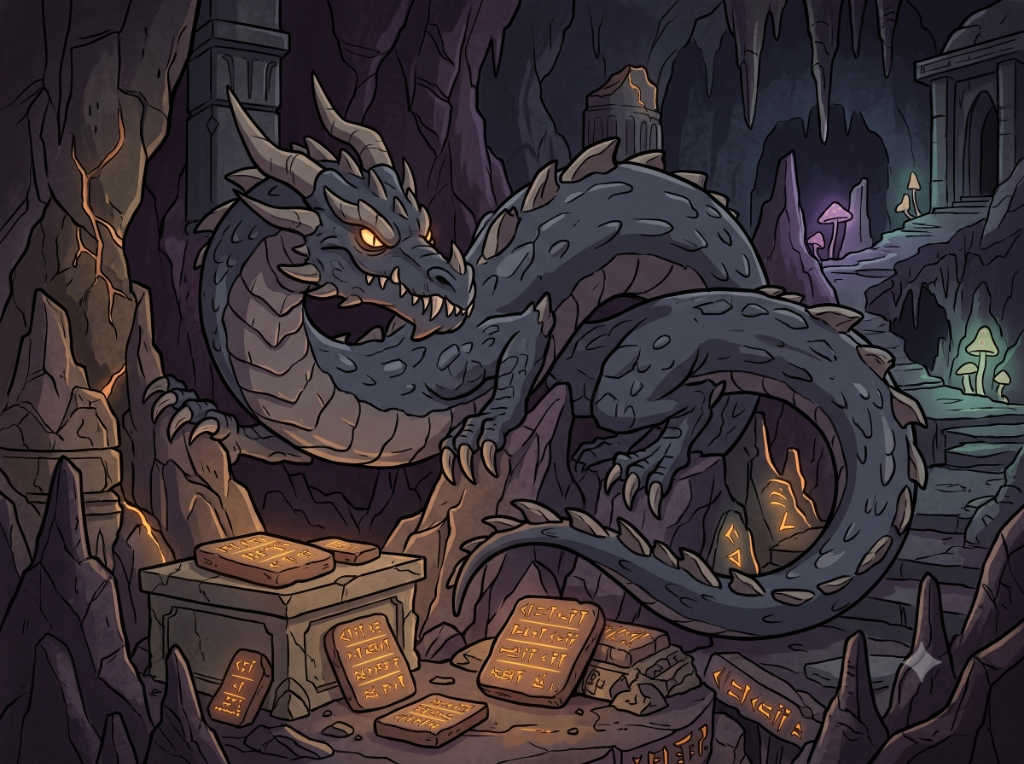
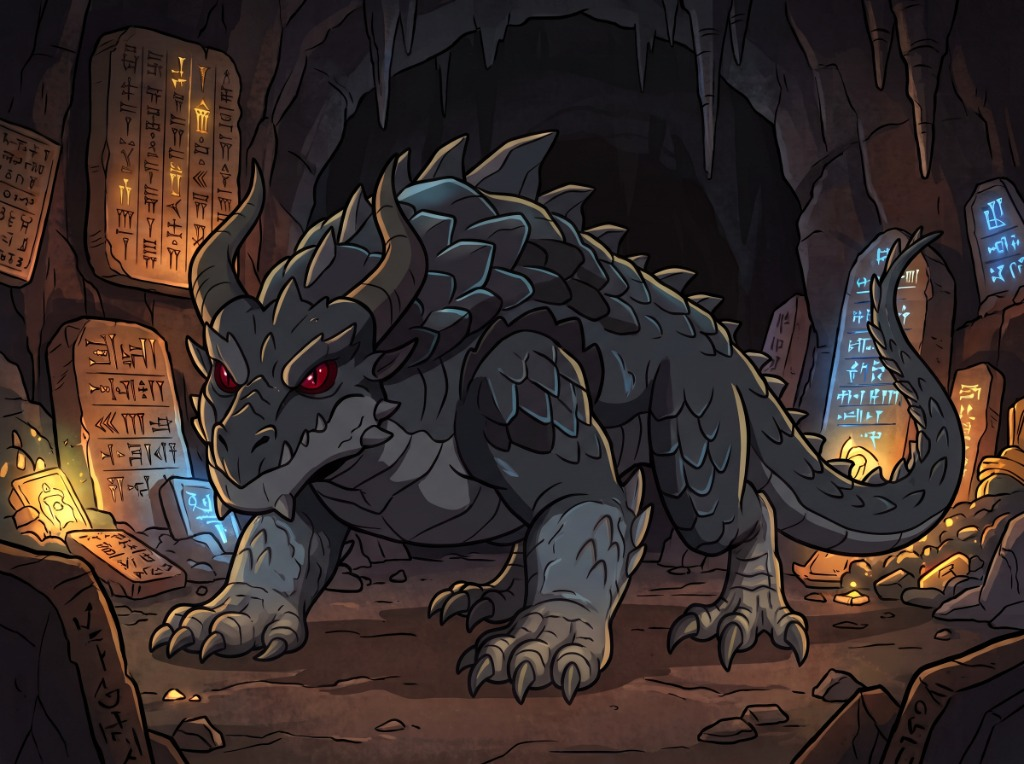
Cambios menores
Seeee

diff --git a/dragon/zenith.html b/dragon/zenith.html
@@ -32,29 +32,29 @@
   </script>
   <link rel="stylesheet" href="/styles.css?v=6.4.0">
 
-  <!-- Custom SSG Open Graph & Meta Tags for Huracán -->
-  <title>Huracán (El Señor Corazón del Cielo) | Santuario de Dragones</title>
-  <meta name="description" content="Huracán es un dragón Drakón de Tormenta de la mitología Mesoamericana y Sudamericana. Hábitat: Cielos Tormentosos y Ruinas de El Mirador. El colosal Huracán (el gran dragón de la mitología Maya y del Caribe) es el señor absoluto de los vientos giratorios, los terremotos y las t...">
-  <link rel="canonical" href="https://santuario-dragones.vercel.app/dragon/huracan.html">
-  <meta property="og:title" content="Huracán - El Señor Corazón del Cielo">
-  <meta property="og:description" content="Huracán es un dragón Drakón de Tormenta de la mitología Mesoamericana y Sudamericana. Hábitat: Cielos Tormentosos y Ruinas de El Mirador. El colosal Huracán (el gran dragón de la mitología Maya y del Caribe) es el señor absoluto de los vientos giratorios, los terremotos y las t...">
-  <meta property="og:image" content="https://santuario-dragones.vercel.app/assets/dragons/dragon_65.jpg">
+  <!-- Custom SSG Open Graph & Meta Tags for Zenith -->
+  <title>Zenith (El Gemelo Impenetrable de las Cumbres) | Santuario de Dragones</title>
+  <meta name="description" content="Zenith es un dragón Drake de Fuego de la mitología Leyenda del Santuario. Hábitat: Prados y Colinas Místicas del Santuario. Hijo menor de Magus Dragus y hermano de Ignitharyon y Traxes. Zenith es un singular dragón de dos cabezas y tipo Drake, cubierto por una arm...">
+  <link rel="canonical" href="https://santuario-dragones.vercel.app/dragon/zenith.html">
+  <meta property="og:title" content="Zenith - El Gemelo Impenetrable de las Cumbres">
+  <meta property="og:description" content="Zenith es un dragón Drake de Fuego de la mitología Leyenda del Santuario. Hábitat: Prados y Colinas Místicas del Santuario. Hijo menor de Magus Dragus y hermano de Ignitharyon y Traxes. Zenith es un singular dragón de dos cabezas y tipo Drake, cubierto por una arm...">
+  <meta property="og:image" content="https://santuario-dragones.vercel.app/assets/dragons/dragon_102.jpg">
   <meta property="og:image:width" content="1200">
   <meta property="og:image:height" content="900">
   <meta property="og:type" content="article">
-  <meta property="og:url" content="https://santuario-dragones.vercel.app/dragon/huracan.html">
+  <meta property="og:url" content="https://santuario-dragones.vercel.app/dragon/zenith.html">
   <meta name="twitter:card" content="summary_large_image">
-  <meta name="twitter:title" content="Huracán | Santuario Secreto de Dragones">
-  <meta name="twitter:description" content="Huracán es un dragón Drakón de Tormenta de la mitología Mesoamericana y Sudamericana. Hábitat: Cielos Tormentosos y Ruinas de El Mirador. El colosal Huracán (el gran dragón de la mitología Maya y del Caribe) es el señor absoluto de los vientos giratorios, los terremotos y las t...">
-  <meta name="twitter:image" content="https://santuario-dragones.vercel.app/assets/dragons/dragon_65.jpg">
+  <meta name="twitter:title" content="Zenith | Santuario Secreto de Dragones">
+  <meta name="twitter:description" content="Zenith es un dragón Drake de Fuego de la mitología Leyenda del Santuario. Hábitat: Prados y Colinas Místicas del Santuario. Hijo menor de Magus Dragus y hermano de Ignitharyon y Traxes. Zenith es un singular dragón de dos cabezas y tipo Drake, cubierto por una arm...">
+  <meta name="twitter:image" content="https://santuario-dragones.vercel.app/assets/dragons/dragon_102.jpg">
   
   <script type="application/ld+json">
   {
     "@context": "https://schema.org",
     "@type": "Article",
-    "headline": "Huracán - El Señor Corazón del Cielo",
-    "description": "Huracán es un dragón Drakón de Tormenta de la mitología Mesoamericana y Sudamericana. Hábitat: Cielos Tormentosos y Ruinas de El Mirador. El colosal Huracán (el gran dragón de la mitología Maya y del Caribe) es el señor absoluto de los vientos giratorios, los terremotos y las t...",
-    "image": "https://santuario-dragones.vercel.app/assets/dragons/dragon_65.jpg",
+    "headline": "Zenith - El Gemelo Impenetrable de las Cumbres",
+    "description": "Zenith es un dragón Drake de Fuego de la mitología Leyenda del Santuario. Hábitat: Prados y Colinas Místicas del Santuario. Hijo menor de Magus Dragus y hermano de Ignitharyon y Traxes. Zenith es un singular dragón de dos cabezas y tipo Drake, cubierto por una arm...",
+    "image": "https://santuario-dragones.vercel.app/assets/dragons/dragon_102.jpg",
     "author": {
       "@type": "Person",
       "name": "Magus Dragus"
@@ -108,10 +108,10 @@
         
         <header style="text-align: center; margin-bottom: 1.2rem; border-bottom: 1px solid var(--border-panel); padding-bottom: 1rem;">
           <span class="badge" style="background: rgba(233,196,106,0.15); border: 1px solid var(--gold-main); color: var(--gold-main); padding: 4px 12px; border-radius: 20px; font-weight: 700; font-size: 0.85rem; text-transform: uppercase;">
-            📜 Dragón #65
+            📜 Dragón #102
           </span>
-          <h1 class="hero-title" style="font-size: 2.8rem; color: var(--gold-main); margin: 0.8rem 0 0.4rem 0; font-family: var(--font-heading); text-align: center;">Huracán</h1>
-          <p class="dragon-standalone-subtitle" style="font-size: 1.3rem; font-style: italic; color: var(--color-teal); margin: 0 auto; text-align: center; width: 100%; display: block;">"El Señor Corazón del Cielo"</p>
+          <h1 class="hero-title" style="font-size: 2.8rem; color: var(--gold-main); margin: 0.8rem 0 0.4rem 0; font-family: var(--font-heading); text-align: center;">Zenith</h1>
+          <p class="dragon-standalone-subtitle" style="font-size: 1.3rem; font-style: italic; color: var(--color-teal); margin: 0 auto; text-align: center; width: 100%; display: block;">"El Gemelo Impenetrable de las Cumbres"</p>
         </header>
 
         <div style="display: grid; grid-template-columns: repeat(auto-fit, minmax(280px, 1fr)); gap: 1.2rem; align-items: start;">
@@ -119,13 +119,13 @@
           <!-- Column 1: Image & Badges -->
           <div style="text-align: center;">
             <div style="aspect-ratio: 4 / 3; width: 100%; border-radius: 14px; overflow: hidden; border: 2px solid var(--gold-main); box-shadow: 0 8px 25px rgba(0,0,0,0.7); background: #0c0b14;">
-              <img src="/assets/dragons/dragon_65.jpg" alt="Huracán" style="width: 100%; height: 100%; object-fit: contain;" />
+              <img src="/assets/dragons/dragon_102.jpg" alt="Zenith" style="width: 100%; height: 100%; object-fit: contain;" />
             </div>
 
             <div style="display: flex; flex-direction: column; gap: 6px; margin-top: 1rem;">
-              <span class="badge" style="background: rgba(233,196,106,0.15); border: 1px solid var(--gold-main); color: var(--gold-main); padding: 8px 12px; border-radius: 8px; font-weight: 700; text-align: left; font-size: 0.9rem;">🏛 Mitología: Mesoamericana y Sudamericana</span>
-              <span class="badge" style="background: rgba(42,157,143,0.15); border: 1px solid var(--color-teal); color: var(--color-teal); padding: 8px 12px; border-radius: 8px; font-weight: 700; text-align: left; font-size: 0.9rem;">🐉 Tipo: Drakón</span>
-              <span class="badge" style="background: rgba(231,111,81,0.15); border: 1px solid #e76f51; color: #e76f51; padding: 8px 12px; border-radius: 8px; font-weight: 700; text-align: left; font-size: 0.9rem;">🔥 Elemento: Tormenta</span>
+              <span class="badge" style="background: rgba(233,196,106,0.15); border: 1px solid var(--gold-main); color: var(--gold-main); padding: 8px 12px; border-radius: 8px; font-weight: 700; text-align: left; font-size: 0.9rem;">🏛 Mitología: Leyenda del Santuario</span>
+              <span class="badge" style="background: rgba(42,157,143,0.15); border: 1px solid var(--color-teal); color: var(--color-teal); padding: 8px 12px; border-radius: 8px; font-weight: 700; text-align: left; font-size: 0.9rem;">🐉 Tipo: Drake</span>
+              <span class="badge" style="background: rgba(231,111,81,0.15); border: 1px solid #e76f51; color: #e76f51; padding: 8px 12px; border-radius: 8px; font-weight: 700; text-align: left; font-size: 0.9rem;">🔥 Elemento: Fuego</span>
               <span class="badge" style="background: rgba(255,255,255,0.08); border: 1px solid #fff; color: #fff; padding: 8px 12px; border-radius: 8px; font-weight: 700; text-align: left; font-size: 0.9rem;">⚠ Peligrosidad: 3/5 (⭐⭐⭐)</span>
             </div>
           </div>
@@ -134,16 +134,16 @@
           <div>
             <div style="background: rgba(255,255,255,0.03); padding: 1rem; border-radius: 12px; border: 1px solid var(--border-panel); margin-bottom: 1rem;">
               <h3 style="color: var(--gold-main); margin-top: 0; font-size: 1.15rem; border-bottom: 1px solid rgba(255,255,255,0.1); padding-bottom: 0.4rem;">📊 Datos de Combate & Hábitat</h3>
-              <p style="margin: 0.5rem 0; font-size: 0.95rem;"><strong>🏡 Hábitat:</strong> <span style="color: var(--text-main);">Cielos Tormentosos y Ruinas de El Mirador</span></p>
-              <p style="margin: 0.5rem 0; font-size: 0.95rem;"><strong>⚡ Habilidad Especial:</strong> <span style="color: var(--text-main);">Ciclón de Jade Espiral, Sismos de Cola Única y Aliento de Lluvia Fertil</span></p>
-              <p style="margin: 0.5rem 0; font-size: 0.95rem;"><strong>🛡 Debilidad:</strong> <span style="color: var(--text-main);">La Calma Absoluta del Ojo Solar</span></p>
+              <p style="margin: 0.5rem 0; font-size: 0.95rem;"><strong>🏡 Hábitat:</strong> <span style="color: var(--text-main);">Prados y Colinas Místicas del Santuario</span></p>
+              <p style="margin: 0.5rem 0; font-size: 0.95rem;"><strong>⚡ Habilidad Especial:</strong> <span style="color: var(--text-main);">Visión Doble Coordinada, Aliento Dual de Fuego Violeta y Escamas Impenetrables</span></p>
+              <p style="margin: 0.5rem 0; font-size: 0.95rem;"><strong>🛡 Debilidad:</strong> <span style="color: var(--text-main);">Descoordinación entre Cabezas por Distracción</span></p>
             </div>
 
             <div class="fantasy-panel" style="background: rgba(10,9,17,0.9); padding: 1rem; border-radius: 12px; border: 1px solid var(--gold-main);">
               <h3 style="color: var(--gold-main); margin-top: 0; font-size: 1.15rem; display: flex; align-items: center; gap: 8px;">
                 📜 Pergamino de la Antigüedad
               </h3>
-              <p style="font-size: 0.95rem; line-height: 1.6; color: var(--text-main); font-style: italic; margin-bottom: 0;">"El colosal Huracán (el gran dragón de la mitología Maya y del Caribe) es el señor absoluto de los vientos giratorios, los terremotos y las tormentas tropicales. ¡De su nombre proviene directamente la palabra 'huracán'! Posee una anatomía única y giratoria de dos brazos asimétricos y una sola pata espiral. Su rostro es una máscara de piedra tallada en basalto con un místico ojo en forma de 'X' y cejas de fuego turquesa, exhalando la lluvia sagrada de jade."</p>
+              <p style="font-size: 0.95rem; line-height: 1.6; color: var(--text-main); font-style: italic; margin-bottom: 0;">"Hijo menor de Magus Dragus y hermano de Ignitharyon y Traxes. Zenith es un singular dragón de dos cabezas y tipo Drake, cubierto por una armadura de escamas violetas totalmente impenetrables. Sus dos cabezas independientes le permiten vigilar en todas direcciones simultáneamente y lanzar ráfagas sincronizadas de fuego místico mientras corre a toda velocidad por las colinas."</p>
             </div>
           </div>
 

diff --git a/js/bundle.js b/js/bundle.js
@@ -872,6 +872,13 @@ const DRAGONS_DATA = [
     physicalDescription: "gorgeous feathered serpent dragon with fiery orange and gold scales, bright red feathered wings, glowing flame tail trail like a shooting meteor, Ampithere dragon with Fuego powers in Bosques del Volga",
     svgType: "ampithere", colorPrimary: "#e65100", colorSecondary: "#ffe0b2", glowColor: "#ffb74d"
   },
+  {
+    id: 65, name: "Huracán", title: "El Señor Corazón del Cielo", mythology: "Mesoamericana y Sudamericana", type: "Drakón", element: "Tormenta", danger: 3,
+    habitat: "Cielos Tormentosos y Ruinas de El Mirador", ability: "Ciclón de Jade Espiral, Sismos de Cola Única y Aliento de Lluvia Fertil", weakness: "La Calma Absoluta del Ojo Solar",
+    scroll: "El colosal Huracán (el gran dragón de la mitología Maya y del Caribe) es el señor absoluto de los vientos giratorios, los terremotos y las tormentas tropicales. ¡De su nombre proviene directamente la palabra 'huracán'! Posee una anatomía única y giratoria de dos brazos asimétricos y una sola pata espiral. Su rostro es una máscara de piedra tallada en basalto con un místico ojo en forma de 'X' y cejas de fuego turquesa, exhalando la lluvia sagrada de jade.",
+    physicalDescription: "unique asymmetrical green jade dragon with carved stone mask face, one large eye with X pupil and flaming turquoise eyebrows, exhaling spiral cloud mist tornado, Drakón dragon with Tormenta powers in Cielos Tormentosos",
+    svgType: "draco", colorPrimary: "#00695c", colorSecondary: "#18ffff", glowColor: "#64ffda"
+  },
 
   // 7. MESOPOTÁMICA, PERSA Y EGIPCIA (10)
   {
@@ -1133,11 +1140,11 @@ const DRAGONS_DATA = [
     svgType: "wyvern", colorPrimary: "#d84315", colorSecondary: "#76ff03", glowColor: "#b2ff59"
   },
   {
-    id: 102, name: "Huracán", title: "El Señor Corazón del Cielo", mythology: "Mesoamericana y Sudamericana", type: "Drakón", element: "Tormenta", danger: 3,
-    habitat: "Cielos Tormentosos y Ruinas de El Mirador", ability: "Ciclón de Jade Espiral, Sismos de Cola Única y Aliento de Lluvia Fertil", weakness: "La Calma Absoluta del Ojo Solar",
-    scroll: "El colosal Huracán (el gran dragón de la mitología Maya y del Caribe) es el señor absoluto de los vientos giratorios, los terremotos y las tormentas tropicales. ¡De su nombre proviene directamente la palabra 'huracán'! Posee una anatomía única y giratoria de dos brazos asimétricos y una sola pata espiral. Su rostro es una máscara de piedra tallada en basalto con un místico ojo en forma de 'X' y cejas de fuego turquesa, exhalando la lluvia sagrada de jade.",
-    physicalDescription: "unique asymmetrical green jade dragon with carved stone mask face, one large eye with X pupil and flaming turquoise eyebrows, exhaling spiral cloud mist tornado, Drakón dragon with Tormenta powers in Cielos Tormentosos",
-    svgType: "draco", colorPrimary: "#00695c", colorSecondary: "#18ffff", glowColor: "#64ffda"
+    id: 102, name: "Zenith", title: "El Gemelo Impenetrable de las Cumbres", mythology: "Leyenda del Santuario", type: "Drake", element: "Fuego", danger: 3,
+    habitat: "Prados y Colinas Místicas del Santuario", ability: "Visión Doble Coordinada, Aliento Dual de Fuego Violeta y Escamas Impenetrables", weakness: "Descoordinación entre Cabezas por Distracción",
+    scroll: "Hijo menor de Magus Dragus y hermano de Ignitharyon y Traxes. Zenith es un singular dragón de dos cabezas y tipo Drake, cubierto por una armadura de escamas violetas totalmente impenetrables. Sus dos cabezas independientes le permiten vigilar en todas direcciones simultáneamente y lanzar ráfagas sincronizadas de fuego místico mientras corre a toda velocidad por las colinas.",
+    physicalDescription: "colossal two-headed wingless drake dragon with deep violet scales, glowing eyes, Drake dragon with Fuego powers in Prados Místicos del Santuario",
+    svgType: "draco", colorPrimary: "#6a1b9a", colorSecondary: "#e1bee7", glowColor: "#ea80fc"
   },
   {
     id: 105, name: "Skrimsl", title: "El Dragón Astral de Islandia", mythology: "Nórdica y Germánica", type: "Wyrm", element: "Agua", danger: 3,
@@ -1507,7 +1514,7 @@ function renderSigilSVG(state, consonants, width = 600, height = 600) {
 
 function getDragonArtworkSrc(dragon) {
   if (dragon && dragon.id <= 200) {
-    const v = (dragon.id === 13) ? '?v=13_v2' : (dragon.id === 45) ? '?v=45_v2' : (dragon.id === 18) ? '?v=18_v2' : (dragon.id === 11) ? '?v=11_v2' : (dragon.id === 3) ? '?v=3_v2' : (dragon.id === 20) ? '?v=20_v2' : (dragon.id === 10) ? '?v=10_v2' : (dragon.id === 2) ? '?v=2_v2' : (dragon.id === 46) ? '?v=46_v2' : (dragon.id === 102) ? '?v=102_v2' : '';
+    const v = (dragon.id === 13) ? '?v=13_v2' : (dragon.id === 45) ? '?v=45_v2' : (dragon.id === 18) ? '?v=18_v2' : (dragon.id === 11) ? '?v=11_v2' : (dragon.id === 3) ? '?v=3_v2' : (dragon.id === 20) ? '?v=20_v2' : (dragon.id === 10) ? '?v=10_v2' : (dragon.id === 2) ? '?v=2_v2' : (dragon.id === 46) ? '?v=46_v2' : (dragon.id === 65) ? '?v=65_v2' : (dragon.id === 67) ? '?v=67_v2' : '';
     return `/assets/dragons/dragon_${dragon.id}.jpg${v}`;
   }
   return null;

diff --git a/js/data/dragons.js b/js/data/dragons.js
@@ -458,6 +458,13 @@ export const DRAGONS_DATA = [
     physicalDescription: "gorgeous feathered serpent dragon with fiery orange and gold scales, bright red feathered wings, glowing flame tail trail like a shooting meteor, Ampithere dragon with Fuego powers in Bosques del Volga",
     svgType: "ampithere", colorPrimary: "#e65100", colorSecondary: "#ffe0b2", glowColor: "#ffb74d"
   },
+  {
+    id: 65, name: "Huracán", title: "El Señor Corazón del Cielo", mythology: "Mesoamericana y Sudamericana", type: "Drakón", element: "Tormenta", danger: 3,
+    habitat: "Cielos Tormentosos y Ruinas de El Mirador", ability: "Ciclón de Jade Espiral, Sismos de Cola Única y Aliento de Lluvia Fertil", weakness: "La Calma Absoluta del Ojo Solar",
+    scroll: "El colosal Huracán (el gran dragón de la mitología Maya y del Caribe) es el señor absoluto de los vientos giratorios, los terremotos y las tormentas tropicales. ¡De su nombre proviene directamente la palabra 'huracán'! Posee una anatomía única y giratoria de dos brazos asimétricos y una sola pata espiral. Su rostro es una máscara de piedra tallada en basalto con un místico ojo en forma de 'X' y cejas de fuego turquesa, exhalando la lluvia sagrada de jade.",
+    physicalDescription: "unique asymmetrical green jade dragon with carved stone mask face, one large eye with X pupil and flaming turquoise eyebrows, exhaling spiral cloud mist tornado, Drakón dragon with Tormenta powers in Cielos Tormentosos",
+    svgType: "draco", colorPrimary: "#00695c", colorSecondary: "#18ffff", glowColor: "#64ffda"
+  },
 
   // 7. MESOPOTÁMICA, PERSA Y EGIPCIA (10)
   {
@@ -719,11 +726,11 @@ export const DRAGONS_DATA = [
     svgType: "wyvern", colorPrimary: "#d84315", colorSecondary: "#76ff03", glowColor: "#b2ff59"
   },
   {
-    id: 102, name: "Huracán", title: "El Señor Corazón del Cielo", mythology: "Mesoamericana y Sudamericana", type: "Drakón", element: "Tormenta", danger: 3,
-    habitat: "Cielos Tormentosos y Ruinas de El Mirador", ability: "Ciclón de Jade Espiral, Sismos de Cola Única y Aliento de Lluvia Fertil", weakness: "La Calma Absoluta del Ojo Solar",
-    scroll: "El colosal Huracán (el gran dragón de la mitología Maya y del Caribe) es el señor absoluto de los vientos giratorios, los terremotos y las tormentas tropicales. ¡De su nombre proviene directamente la palabra 'huracán'! Posee una anatomía única y giratoria de dos brazos asimétricos y una sola pata espiral. Su rostro es una máscara de piedra tallada en basalto con un místico ojo en forma de 'X' y cejas de fuego turquesa, exhalando la lluvia sagrada de jade.",
-    physicalDescription: "unique asymmetrical green jade dragon with carved stone mask face, one large eye with X pupil and flaming turquoise eyebrows, exhaling spiral cloud mist tornado, Drakón dragon with Tormenta powers in Cielos Tormentosos",
-    svgType: "draco", colorPrimary: "#00695c", colorSecondary: "#18ffff", glowColor: "#64ffda"
+    id: 102, name: "Zenith", title: "El Gemelo Impenetrable de las Cumbres", mythology: "Leyenda del Santuario", type: "Drake", element: "Fuego", danger: 3,
+    habitat: "Prados y Colinas Místicas del Santuario", ability: "Visión Doble Coordinada, Aliento Dual de Fuego Violeta y Escamas Impenetrables", weakness: "Descoordinación entre Cabezas por Distracción",
+    scroll: "Hijo menor de Magus Dragus y hermano de Ignitharyon y Traxes. Zenith es un singular dragón de dos cabezas y tipo Drake, cubierto por una armadura de escamas violetas totalmente impenetrables. Sus dos cabezas independientes le permiten vigilar en todas direcciones simultáneamente y lanzar ráfagas sincronizadas de fuego místico mientras corre a toda velocidad por las colinas.",
+    physicalDescription: "colossal two-headed wingless drake dragon with deep violet scales, glowing eyes, Drake dragon with Fuego powers in Prados Místicos del Santuario",
+    svgType: "draco", colorPrimary: "#6a1b9a", colorSecondary: "#e1bee7", glowColor: "#ea80fc"
   },
   {
     id: 105, name: "Skrimsl", title: "El Dragón Astral de Islandia", mythology: "Nórdica y Germánica", type: "Wyrm", element: "Agua", danger: 3,

diff --git a/js/svg/dragonSvg.js b/js/svg/dragonSvg.js
@@ -1,6 +1,6 @@
 export function getDragonArtworkSrc(dragon) {
   if (dragon && dragon.id <= 200) {
-    const v = (dragon.id === 13) ? '?v=13_v2' : (dragon.id === 45) ? '?v=45_v2' : (dragon.id === 18) ? '?v=18_v2' : (dragon.id === 11) ? '?v=11_v2' : (dragon.id === 3) ? '?v=3_v2' : (dragon.id === 20) ? '?v=20_v2' : (dragon.id === 10) ? '?v=10_v2' : (dragon.id === 2) ? '?v=2_v2' : (dragon.id === 46) ? '?v=46_v2' : (dragon.id === 102) ? '?v=102_v2' : '';
+    const v = (dragon.id === 13) ? '?v=13_v2' : (dragon.id === 45) ? '?v=45_v2' : (dragon.id === 18) ? '?v=18_v2' : (dragon.id === 11) ? '?v=11_v2' : (dragon.id === 3) ? '?v=3_v2' : (dragon.id === 20) ? '?v=20_v2' : (dragon.id === 10) ? '?v=10_v2' : (dragon.id === 2) ? '?v=2_v2' : (dragon.id === 46) ? '?v=46_v2' : (dragon.id === 65) ? '?v=65_v2' : (dragon.id === 67) ? '?v=67_v2' : '';
     return `/assets/dragons/dragon_${dragon.id}.jpg${v}`;
   }
   return null;

diff --git a/listado_dragones.md b/listado_dragones.md
@@ -64,6 +64,7 @@
 | **#62** | Illuyanka | Wyrm | Tierra |
 | **#63** | Yilbegän | Hidra | Hielo |
 | **#64** | Chuvash Yish | Shen | Fuego |
+| **#65** | Huracán | Drakón | Tormenta |
 | **#66** | Tiamat | Hidra | Agua |
 | **#67** | Kur | Drake | Tierra |
 | **#68** | Apep (Apofis) | Wyrm | Sombra |
@@ -100,5 +101,5 @@
 | **#99** | Dragón Fénix de Esmeralda | Ampithere | Naturaleza |
 | **#100** | Dragón de Runas Antiguas | Ampithere | Luz |
 | **#101** | Ignitharyon | Wyvern | Fuego |
-| **#102** | Huracán | Drakón | Tormenta |
+| **#102** | Zenith | Drake | Fuego |
 | **#105** | Skrimsl | Wyrm | Agua |
